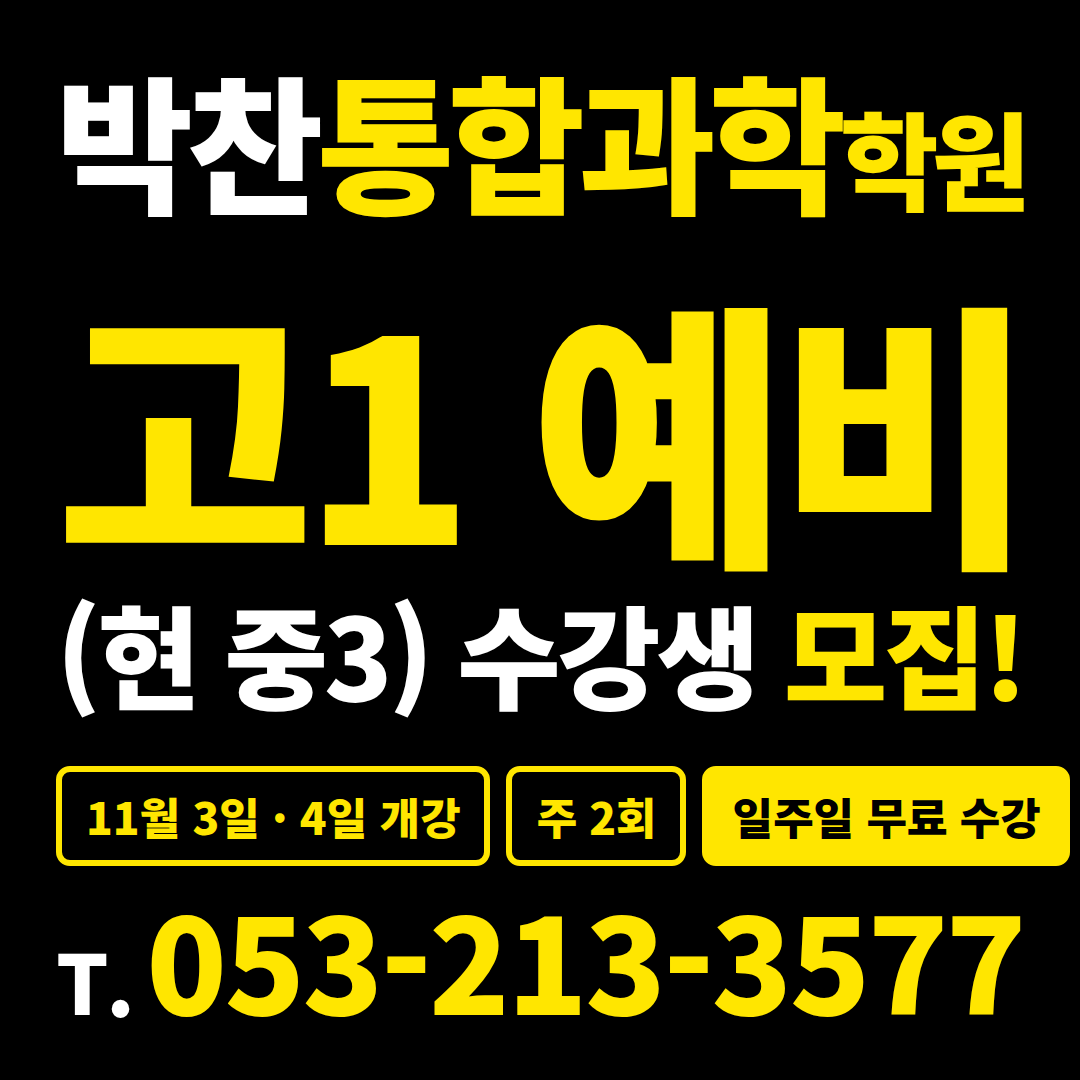
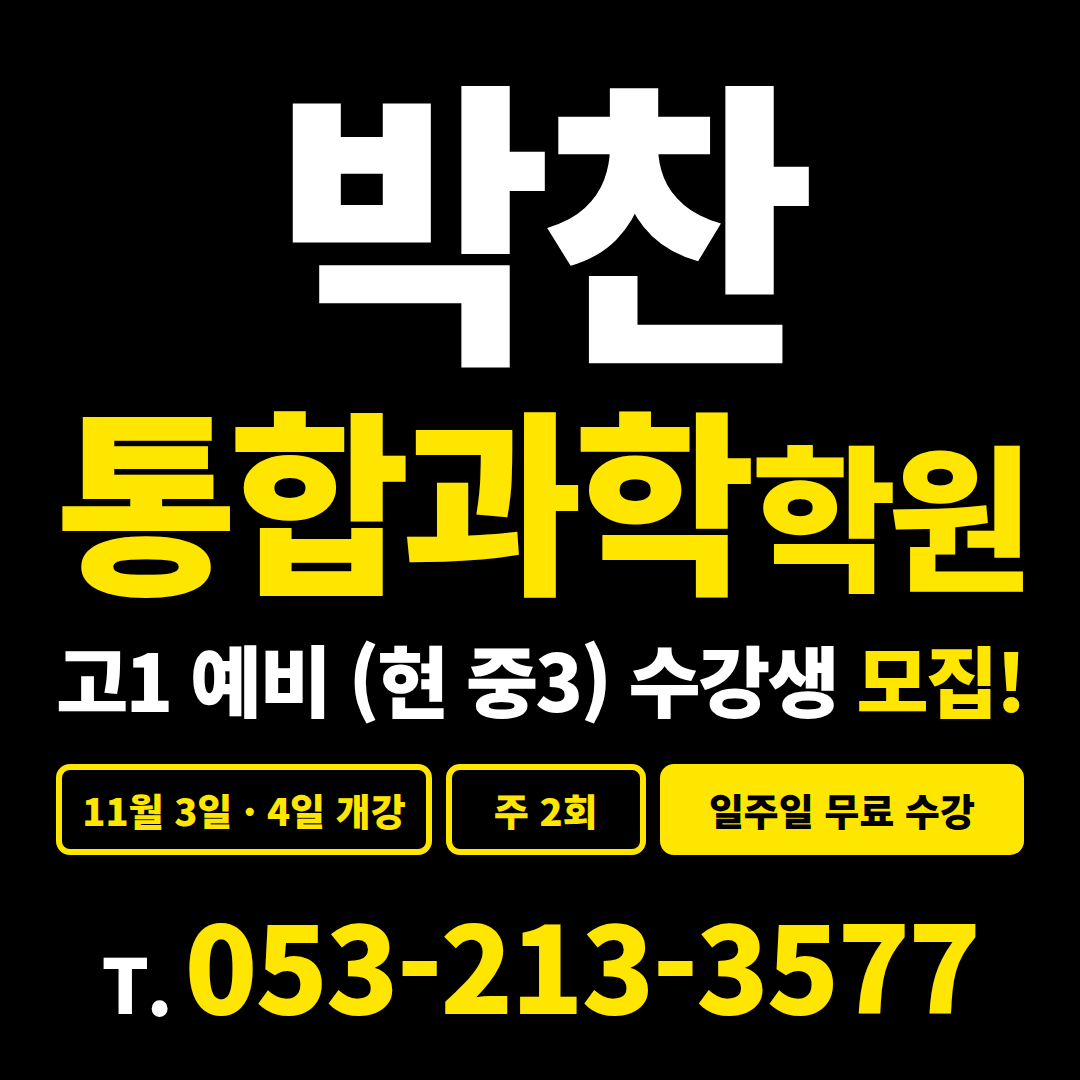
marketing: 당근 검정 광고(소식 6) — 학원 이름을 '고1 예비'보다 크게
Claude-Session: https://claude.ai/code/session_01WC7EVNFFJZDdwaC3HYBAmj

diff --git a/parkchan-science/marketing/daangn-01/images_source.html b/parkchan-science/marketing/daangn-01/images_source.html
@@ -176,12 +176,20 @@ h2{font-size:58px;font-weight:900;line-height:1.3;letter-spacing:-.02em;color:va
 #adB .badge{font-size:32px;padding:10px 28px}
 #adC .stp4 b{font-size:31px}#adC .stp4 em{width:48px;height:48px;font-size:26px}#adC .stp4 div{padding:26px 10px 28px}
 #adC .pad{padding-top:118px}#adC .dates{margin-top:56px;text-align:center;font-size:38px;line-height:1.6;color:var(--body)}#adC .dates b{color:var(--navy)}#adC .tel2{margin-top:44px}
+#adA{align-items:center;text-align:center;padding:58px 56px 58px;justify-content:space-between}
+#adA .nm1,#adA .nm2,#adA .rec,#adA .tel{align-self:center;margin:0;line-height:1;font-weight:900}
+#adA .nm1{color:#fff;letter-spacing:-.04em}
+#adA .nm2{color:#FFE600;letter-spacing:-.045em;margin-top:-10px}#adA .nm2 i{font-style:normal;font-size:.8em;margin-left:.03em}
+#adA .rec{color:#fff;letter-spacing:-.035em}#adA .rec em{font-style:normal;color:#FFE600}
+#adA .info{margin:0;width:100%;gap:14px}#adA .info span{min-width:0;padding:12px 6px;font-size:38px;display:grid;place-items:center}#adA .info span:nth-child(1){flex:1.5}#adA .info span:nth-child(2){flex:.75}#adA .info span.f{flex:1.45}
 </style></head><body>
 <section id="prof"><div class="in"><div class="a">박찬</div><div class="b">통합과학</div><div class="c">학원</div></div></section>
-<section class="sq" id="adA"><div class="nm fit" data-w="968" data-h="200"><b>박찬</b>통합과학<i>학원</i></div>
- <div class="big fit" data-w="968" data-h="300">고1 예비</div><div class="rec fit" data-w="968" data-h="140">(현 중3) 수강생 <em>모집!</em></div>
+<section class="sq" id="adA">
+ <div class="nm1 fit" data-w="968" data-h="300">박찬</div>
+ <div class="nm2 fit" data-w="968" data-h="200">통합과학<i>학원</i></div>
+ <div class="rec fit" data-w="968" data-h="90">고1 예비 (현 중3) 수강생 <em>모집!</em></div>
  <div class="info"><span>11월 3일 · 4일 개강</span><span>주 2회</span><span class="f">일주일 무료 수강</span></div>
- <div class="tel fit" data-w="968" data-h="140"><small>T.</small>053-213-3577</div></section>
+ <div class="tel fit" data-w="968" data-h="120"><small>T.</small>053-213-3577</div></section>
 <section class="sq cream" id="adB">
  <svg class="doodle" style="right:70px;top:46px" width="170" height="170" viewBox="0 0 190 190" stroke="#3B6AD0" stroke-width="5"><ellipse cx="95" cy="95" rx="80" ry="30" transform="rotate(-25 95 95)"/><ellipse cx="95" cy="95" rx="80" ry="30" transform="rotate(35 95 95)"/><circle cx="95" cy="95" r="13" fill="#FFE287"/></svg>
  <div class="note"><span class="tape"></span>
